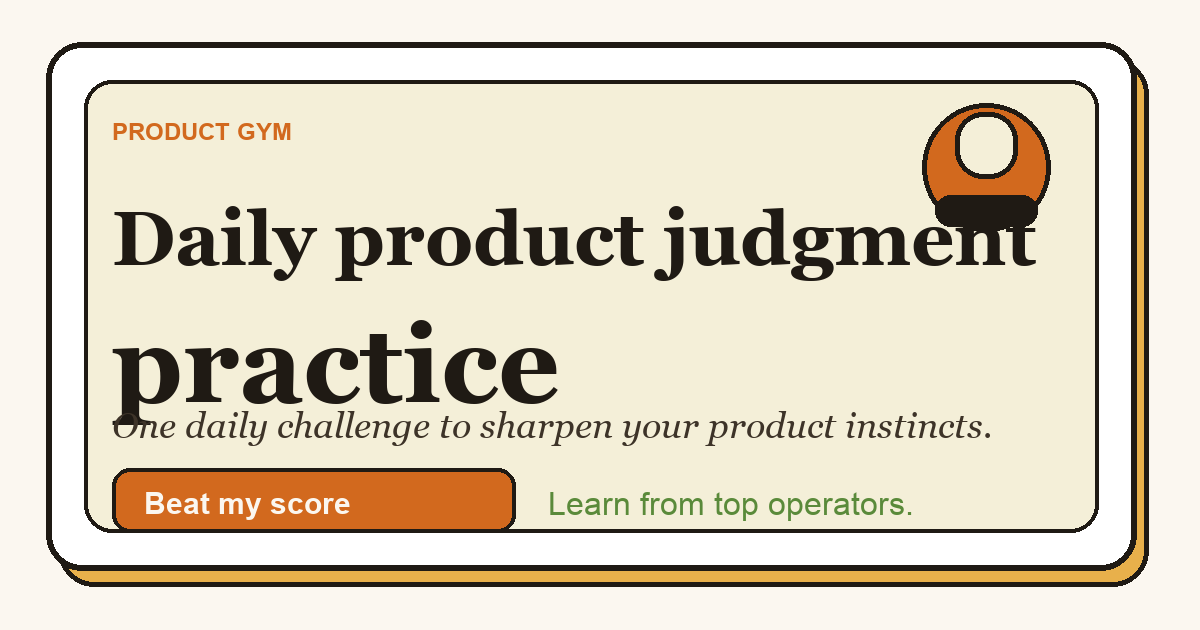
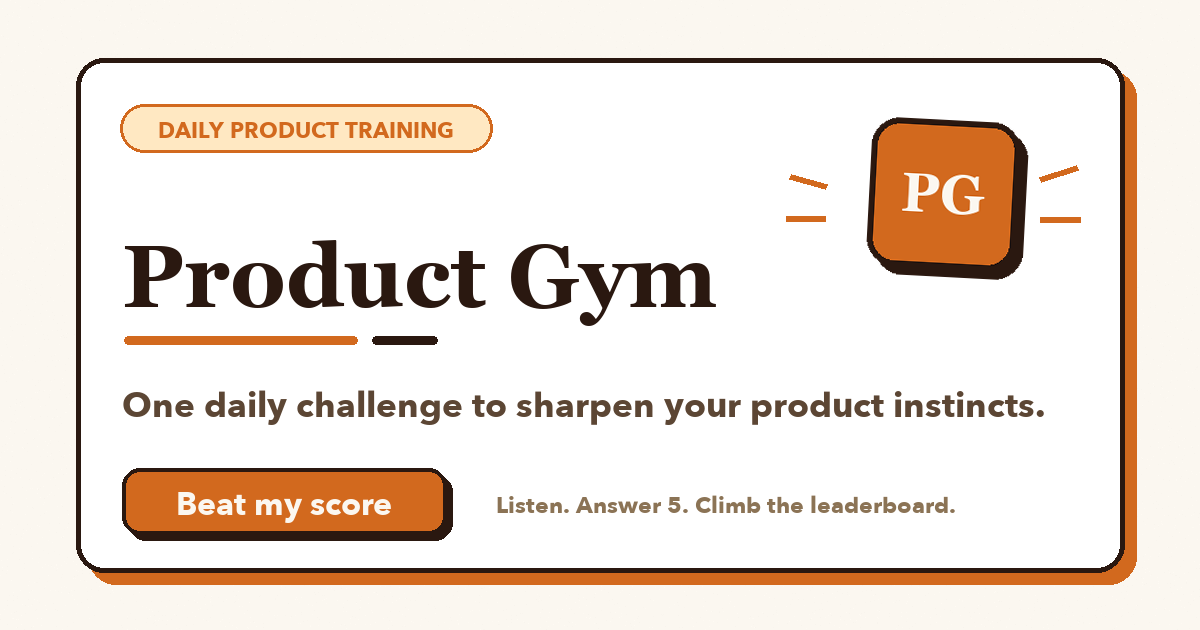
fix: clean up source attribution

diff --git a/apps/web/src/lib/server/content/source-links.ts b/apps/web/src/lib/server/content/source-links.ts
@@ -1,0 +1,38 @@
+type SourceLike = {
+  source_url?: string;
+  search_url?: string;
+};
+
+const URL_REWRITES = new Map([
+  [
+    "https://www.lennysnewsletter.com/p/building-eval-systems-that-improve-your-ai-product",
+    "https://www.lennysnewsletter.com/p/building-eval-systems-that-improve",
+  ],
+]);
+
+function normalizeUrl(url: string | undefined) {
+  if (!url) return url;
+  return URL_REWRITES.get(url) ?? url;
+}
+
+export function normalizeSourceLinks<T extends SourceLike | null | undefined>(source: T): T {
+  if (!source) return source;
+  return {
+    ...source,
+    source_url: normalizeUrl(source.source_url),
+    search_url: normalizeUrl(source.search_url),
+  };
+}
+
+export function normalizeContentSourceLinks<T extends { source?: SourceLike; questions?: any[] }>(
+  content: T,
+): T {
+  return {
+    ...content,
+    source: normalizeSourceLinks(content.source),
+    questions: content.questions?.map((q) => ({
+      ...q,
+      citation: normalizeSourceLinks(q.citation),
+    })),
+  };
+}

diff --git a/apps/web/src/routes/+page.svelte b/apps/web/src/routes/+page.svelte
@@ -126,15 +126,26 @@
     <p class="sans text-[12px] text-ink-soft leading-relaxed mt-3">
       Today’s quiz asks you to apply what {todayContent.source.byline} discussed to a realistic product decision.
     </p>
-    <a
-      href={todayContent.source.source_url ?? todayContent.source.search_url}
-      target="_blank"
-      rel="noreferrer"
-      class="sans inline-flex text-[12px] font-bold text-ink underline mt-3"
-    >
-      Listen to the source
-    </a>
+    <div class="flex flex-wrap gap-3 mt-3">
+      <a
+        href="/today"
+        class="sans inline-flex text-[12px] font-bold text-accent underline underline-offset-4"
+      >
+        Read today’s operator summary
+      </a>
+      <a
+        href={todayContent.source.source_url ?? todayContent.source.search_url}
+        target="_blank"
+        rel="noreferrer"
+        class="sans inline-flex text-[12px] font-bold text-ink underline underline-offset-4"
+      >
+        Open Lenny’s original source
+      </a>
+    </div>
   </div>
+  <p class="sans text-center text-[11px] text-ink-mute leading-relaxed -mt-2 mb-5 px-2">
+    {brandCopy.sourceLine}
+  </p>
 
   <div class="bg-white rounded-2xl border-2 border-ink shadow-brut-accent-lg overflow-hidden mb-6">
     <div class="px-5 py-3.5 bg-paper-warm border-b-2 border-ink flex items-center justify-between">
@@ -240,6 +251,10 @@
         <a href={`/quiz/${data.todayDate}`}
            class="sans btn-press w-full bg-accent text-paper border-2 border-ink rounded-2xl py-4 text-[15px] font-bold shadow-brut-accent-lg flex items-center justify-center gap-2 no-underline">
           Continue to decision 2 <ArrowRight size={16} />
+        </a>
+        <a href="/today"
+           class="sans btn-press w-full bg-white text-ink border-2 border-ink rounded-2xl py-3.5 text-[14px] font-bold shadow-brut flex items-center justify-center gap-2 no-underline">
+          Read the operator summary first
         </a>
       </div>
     </div>

diff --git a/apps/web/src/routes/today/+page.svelte b/apps/web/src/routes/today/+page.svelte
@@ -32,6 +32,11 @@
   let sourceHref = $derived(
     data.content?.source?.source_url || data.content?.source?.search_url || ""
   );
+  let hasDistinctLennySearch = $derived(
+    !!data.content?.source?.source_url &&
+      !!data.content?.source?.search_url &&
+      data.content.source.search_url !== sourceHref
+  );
 </script>
 
 <svelte:head>
@@ -91,7 +96,7 @@
         </div>
         <div class="flex-1 min-w-0">
           <div class="sans text-[10px] font-bold tracking-[0.14em] uppercase text-accent mb-1">
-            Podcast recap
+            Based on Lenny’s
           </div>
           <div class="sans text-[10px] font-bold tracking-[0.16em] uppercase text-ink-mute mb-2 flex flex-wrap gap-2 items-center">
             <span>{c.source.type === "podcast" ? "Interview" : "Newsletter"}</span>
@@ -104,21 +109,26 @@
             {c.source.title}
           </h2>
           <p class="sans text-[13px] leading-[1.5] text-ink-soft mt-2">
-            Today’s challenge asks you to apply {c.source.byline}’s product judgment from this podcast to realistic PM decisions. Start from the original episode or newsletter, then use the takeaways below to make the decision.
+            Today’s challenge asks you to apply {c.source.byline}’s product judgment to realistic PM decisions. Start from the original episode or newsletter, then use the takeaways below to make the decision.
           </p>
         </div>
       </div>
       <div class="px-5 py-3 border-t border-paper-fill flex gap-2 flex-wrap" style="padding: 12px 20px;">
         <a href={sourceHref}
            class="sans inline-flex items-center gap-1.5 bg-ink text-paper rounded-full px-3.5 py-1.5 text-[12px] font-semibold no-underline">
-          <Play size={12} fill="currentColor" /> Listen to podcast
+          <Play size={12} fill="currentColor" /> {c.source.type === "podcast" ? "Open episode" : "Read on Lenny’s"}
         </a>
-        <a href={c.source.search_url}
-           class="sans inline-flex items-center gap-1.5 bg-transparent text-ink border border-ink rounded-full px-3.5 py-1.5 text-[12px] font-semibold no-underline">
-          Read newsletter
-        </a>
+        {#if hasDistinctLennySearch}
+          <a href={c.source.search_url}
+             class="sans inline-flex items-center gap-1.5 bg-transparent text-ink border border-ink rounded-full px-3.5 py-1.5 text-[12px] font-semibold no-underline">
+            Search on Lenny’s
+          </a>
+        {/if}
       </div>
     </section>
+    <p class="sans text-center text-[11px] text-ink-mute leading-relaxed -mt-5 mb-8 px-2">
+      {brandCopy.sourceLine}
+    </p>
 
     <!-- Takeaways -->
     <div class="mt-9 mb-7">
@@ -149,7 +159,7 @@
       <MascotCoach size="sm" mood="think" label="This is where the reps count." />
       <div class="flex-1 min-w-0" style="flex: 1 1 220px;">
         <div class="serif text-xl font-bold leading-tight text-ink">Apply the insight now</div>
-        <div class="sans text-[13px] text-ink-soft mt-0.5">Turn the operator’s lesson into your product decision and see where you land on the leaderboard.</div>
+        <div class="sans text-[13px] text-ink-soft mt-0.5">Turn the operator summary into your product decision and see where you land on the leaderboard.</div>
       </div>
       <a href="/quiz" onclick={() => track("today_start", { source: "today_bottom_cta" })} class="sans btn-press bg-accent text-paper border-2 border-ink rounded-2xl px-5.5 py-3.5 text-[15px] font-bold shadow-brut-lg flex items-center gap-2 flex-shrink-0 no-underline" style="padding: 14px 22px;">
         {brandCopy.takeRepCta} <ArrowRight size={16} />

diff --git a/apps/web/src/routes/quiz/done/+page.svelte b/apps/web/src/routes/quiz/done/+page.svelte
@@ -250,7 +250,7 @@
         </div>
         <div class="flex-1 min-w-0">
           <div class="sans text-[10px] font-bold tracking-widest uppercase text-accent mb-0.5">
-            Now go deeper
+            Based on Lenny’s
           </div>
           <div class="serif text-[15px] font-bold leading-tight">{data.source.title}</div>
           <div class="sans text-xs text-ink-mute mt-0.5">with {data.source.byline}</div>
@@ -262,18 +262,21 @@
           class="sans inline-flex items-center gap-1.5 bg-ink text-paper rounded-full px-3.5 py-1.5 text-[12px] font-semibold no-underline"
         >
           <Play size={12} fill="currentColor" />
-          {data.source.type === "podcast" ? "Listen" : "Read"}
+          {data.source.type === "podcast" ? "Open episode" : "Read on Lenny’s"}
         </a>
-        {#if data.source.type === "podcast"}
+        {#if data.source.source_url && data.source.search_url && data.source.search_url !== data.source.source_url}
           <a
             href={data.source.search_url}
             class="sans inline-flex items-center gap-1.5 bg-transparent text-ink border border-ink rounded-full px-3.5 py-1.5 text-[12px] font-semibold no-underline"
           >
-            <BookOpen size={12} /> Transcript
+            <BookOpen size={12} /> Search on Lenny’s
           </a>
         {/if}
       </div>
     </div>
+    <p class="sans text-center text-[11px] text-ink-mute leading-relaxed -mt-1 mb-4 px-2">
+      {brandCopy.sourceLine}
+    </p>
   {/if}
 
   <!-- Question recap with takeaways -->

diff --git a/apps/web/src/routes/demo/+page.server.ts b/apps/web/src/routes/demo/+page.server.ts
@@ -1,6 +1,7 @@
 import type { PageServerLoad } from "./$types";
 import * as kvKeys from "$lib/server/kv/keys";
 import { formatInTimeZone } from "date-fns-tz";
+import { normalizeSourceLinks } from "$lib/server/content/source-links";
 
 const fallbackQuestion = {
   position: 1,
@@ -26,5 +27,9 @@ export const load: PageServerLoad = async ({ platform }) => {
   const cached = await platform.env.KV.get(kvKeys.todayQuestions(date));
   const questions = cached ? JSON.parse(cached) : [];
 
-  return { question: questions[0] ?? fallbackQuestion, isFallback: questions.length === 0 };
+  const question = questions[0]
+    ? { ...questions[0], citation: normalizeSourceLinks(questions[0].citation) }
+    : fallbackQuestion;
+
+  return { question, isFallback: questions.length === 0 };
 };

diff --git a/apps/web/src/routes/today/+page.server.ts b/apps/web/src/routes/today/+page.server.ts
@@ -5,6 +5,7 @@ import { getDb } from "$lib/server/db/client";
 import { dailySessions, users } from "$lib/server/db/schema";
 import { desc, eq, lte } from "drizzle-orm";
 import { formatInTimeZone } from "date-fns-tz";
+import { normalizeSourceLinks } from "$lib/server/content/source-links";
 
 function todayInTZ(tz: string) {
   return formatInTimeZone(new Date(), tz, "yyyy-MM-dd");
@@ -83,7 +84,7 @@ export const load: PageServerLoad = async ({ locals, platform }) => {
       headline: row.headline,
       digest_md: row.digestMd,
       takeaways: JSON.parse(row.takeawaysJson),
-      source: JSON.parse(row.sourceJson),
+      source: normalizeSourceLinks(JSON.parse(row.sourceJson)),
     });
     if (contentDate === date) {
       await env.KV.put(kvKeys.todayDigest(date), cached);
@@ -91,5 +92,7 @@ export const load: PageServerLoad = async ({ locals, platform }) => {
     return { date: contentDate, missing: false as const, content: JSON.parse(cached) };
   }
 
-  return { date, missing: false as const, content: JSON.parse(cached) };
+  const content = JSON.parse(cached);
+  content.source = normalizeSourceLinks(content.source);
+  return { date, missing: false as const, content };
 };

diff --git a/apps/web/src/routes/+page.server.ts b/apps/web/src/routes/+page.server.ts
@@ -2,6 +2,7 @@ import type { PageServerLoad } from "./$types";
 import { isGoogleAuthEnabled } from "$lib/server/auth/config";
 import * as kvKeys from "$lib/server/kv/keys";
 import { formatInTimeZone } from "date-fns-tz";
+import { normalizeSourceLinks } from "$lib/server/content/source-links";
 
 const fallbackPreviewQuestion = {
   position: 1,
@@ -53,7 +54,10 @@ export const load: PageServerLoad = async ({ platform }) => {
     platform.env.KV.get(kvKeys.todayQuestions(date)),
     platform.env.KV.get(kvKeys.todayDigest(date)),
   ]);
-  const todayContent = digest ? JSON.parse(digest) : fallbackTodayContent;
+  const parsedDigest = digest ? JSON.parse(digest) : null;
+  const todayContent = parsedDigest
+    ? { ...parsedDigest, source: normalizeSourceLinks(parsedDigest.source) }
+    : fallbackTodayContent;
   if (!cached) {
     return {
       previewQuestion: fallbackPreviewQuestion,

diff --git a/apps/web/src/routes/quiz/[date]/+page.server.ts b/apps/web/src/routes/quiz/[date]/+page.server.ts
@@ -9,6 +9,7 @@ import { compareIsoDate, isIsoDate } from "$lib/server/quiz/date";
 import { anonymousUserId, getOrCreateAnonymousQuizId } from "$lib/server/quiz/anonymous";
 import { getQuizSessionStub } from "$lib/server/quiz/runtime-session";
 import type { QuizState } from "$lib/durable-objects/quiz-session";
+import { normalizeSourceLinks } from "$lib/server/content/source-links";
 
 export const load: PageServerLoad = async ({ locals, platform, params, url, cookies }) => {
   if (!platform?.env) throw redirect(302, "/");
@@ -53,7 +54,10 @@ export const load: PageServerLoad = async ({ locals, platform, params, url, cook
   const cachedQ = await env.KV.get(kvKeys.todayQuestions(date));
   if (!cachedQ) return { date, missing: true as const, mode, sessionId };
 
-  const questions = JSON.parse(cachedQ);
+  const questions = (JSON.parse(cachedQ) as Array<any>).map((q) => ({
+    ...q,
+    citation: normalizeSourceLinks(q.citation),
+  }));
 
   const stub = getQuizSessionStub(env, { userId: quizUserId, date, sessionId });
   const initRes = await stub.fetch("https://do/init", {

diff --git a/apps/web/src/routes/api/quiz/[date]/preview/+server.ts b/apps/web/src/routes/api/quiz/[date]/preview/+server.ts
@@ -1,5 +1,6 @@
 import type { RequestHandler } from "./$types";
 import * as kvKeys from "$lib/server/kv/keys";
+import { normalizeSourceLinks } from "$lib/server/content/source-links";
 
 export const GET: RequestHandler = async ({ params, platform }) => {
   if (!platform?.env) return new Response("platform unavailable", { status: 500 });
@@ -13,6 +14,7 @@ export const GET: RequestHandler = async ({ params, platform }) => {
   if (!Array.isArray(qs) || qs.length === 0) {
     return new Response("not found", { status: 404 });
   }
-  const q = qs[Math.floor(Math.random() * qs.length)];
+  const q = qs[Math.floor(Math.random() * qs.length)] as any;
+  q.citation = normalizeSourceLinks(q.citation);
   return Response.json({ question: q });
 };

diff --git a/apps/web/src/lib/server/content/seed.ts b/apps/web/src/lib/server/content/seed.ts
@@ -3,6 +3,7 @@ import type { DB } from "../db/client";
 import { DailyContent } from "./types";
 import * as schema from "../db/schema";
 import * as kvKeys from "../kv/keys";
+import { normalizeContentSourceLinks } from "./source-links";
 
 // Minimal subset of the KV binding we need (Workers KV exposes more).
 type KV = {
@@ -14,7 +15,7 @@ export async function seedDay(args: {
   kv: KV;
   contentJson: unknown;
 }): Promise<{ date: string; questionIds: string[] }> {
-  const c = DailyContent.parse(args.contentJson);
+  const c = normalizeContentSourceLinks(DailyContent.parse(args.contentJson));
   const now = Date.now();
 
   await args.db.insert(schema.dailySessions).values({

diff --git a/apps/web/src/routes/quiz/[date]/done/+page.server.ts b/apps/web/src/routes/quiz/[date]/done/+page.server.ts
@@ -12,6 +12,7 @@ import { anonymousUserId, getPendingQuizClaim } from "$lib/server/quiz/anonymous
 import { scoreQuizState } from "$lib/server/quiz/attempt";
 import { isGoogleAuthEnabled } from "$lib/server/auth/config";
 import { getQuizSessionStub } from "$lib/server/quiz/runtime-session";
+import { normalizeSourceLinks } from "$lib/server/content/source-links";
 
 export const load: PageServerLoad = async ({ locals, platform, params, url, cookies }) => {
   if (!platform?.env) throw redirect(302, "/");
@@ -39,7 +40,7 @@ export const load: PageServerLoad = async ({ locals, platform, params, url, cook
     .from(schema.dailySessions)
     .where(eq(schema.dailySessions.date, date))
     .get();
-  const source = session ? JSON.parse(session.sourceJson) : null;
+  const source = session ? normalizeSourceLinks(JSON.parse(session.sourceJson)) : null;
 
   const stats = locals.user
     ? await db.select().from(schema.userStats).where(eq(schema.userStats.userId, locals.user.id)).get()

diff --git a/apps/web/src/lib/brand/product-gym.ts b/apps/web/src/lib/brand/product-gym.ts
@@ -2,7 +2,7 @@ export const brandCopy = {
   appName: "Product Gym",
   tagline: "One daily challenge to sharpen your product instincts.",
   landingSupport: "Turn operator interviews into product decisions.",
-  sourceLine: "Sourced from expert product conversations.",
+  sourceLine: "Product Gym is an independent training tool based on Lenny’s Podcast and Newsletter.",
   todayRep: "Today’s Rep",
   takeRepCta: "Start today’s challenge",
   demoCta: "Try today’s sample",